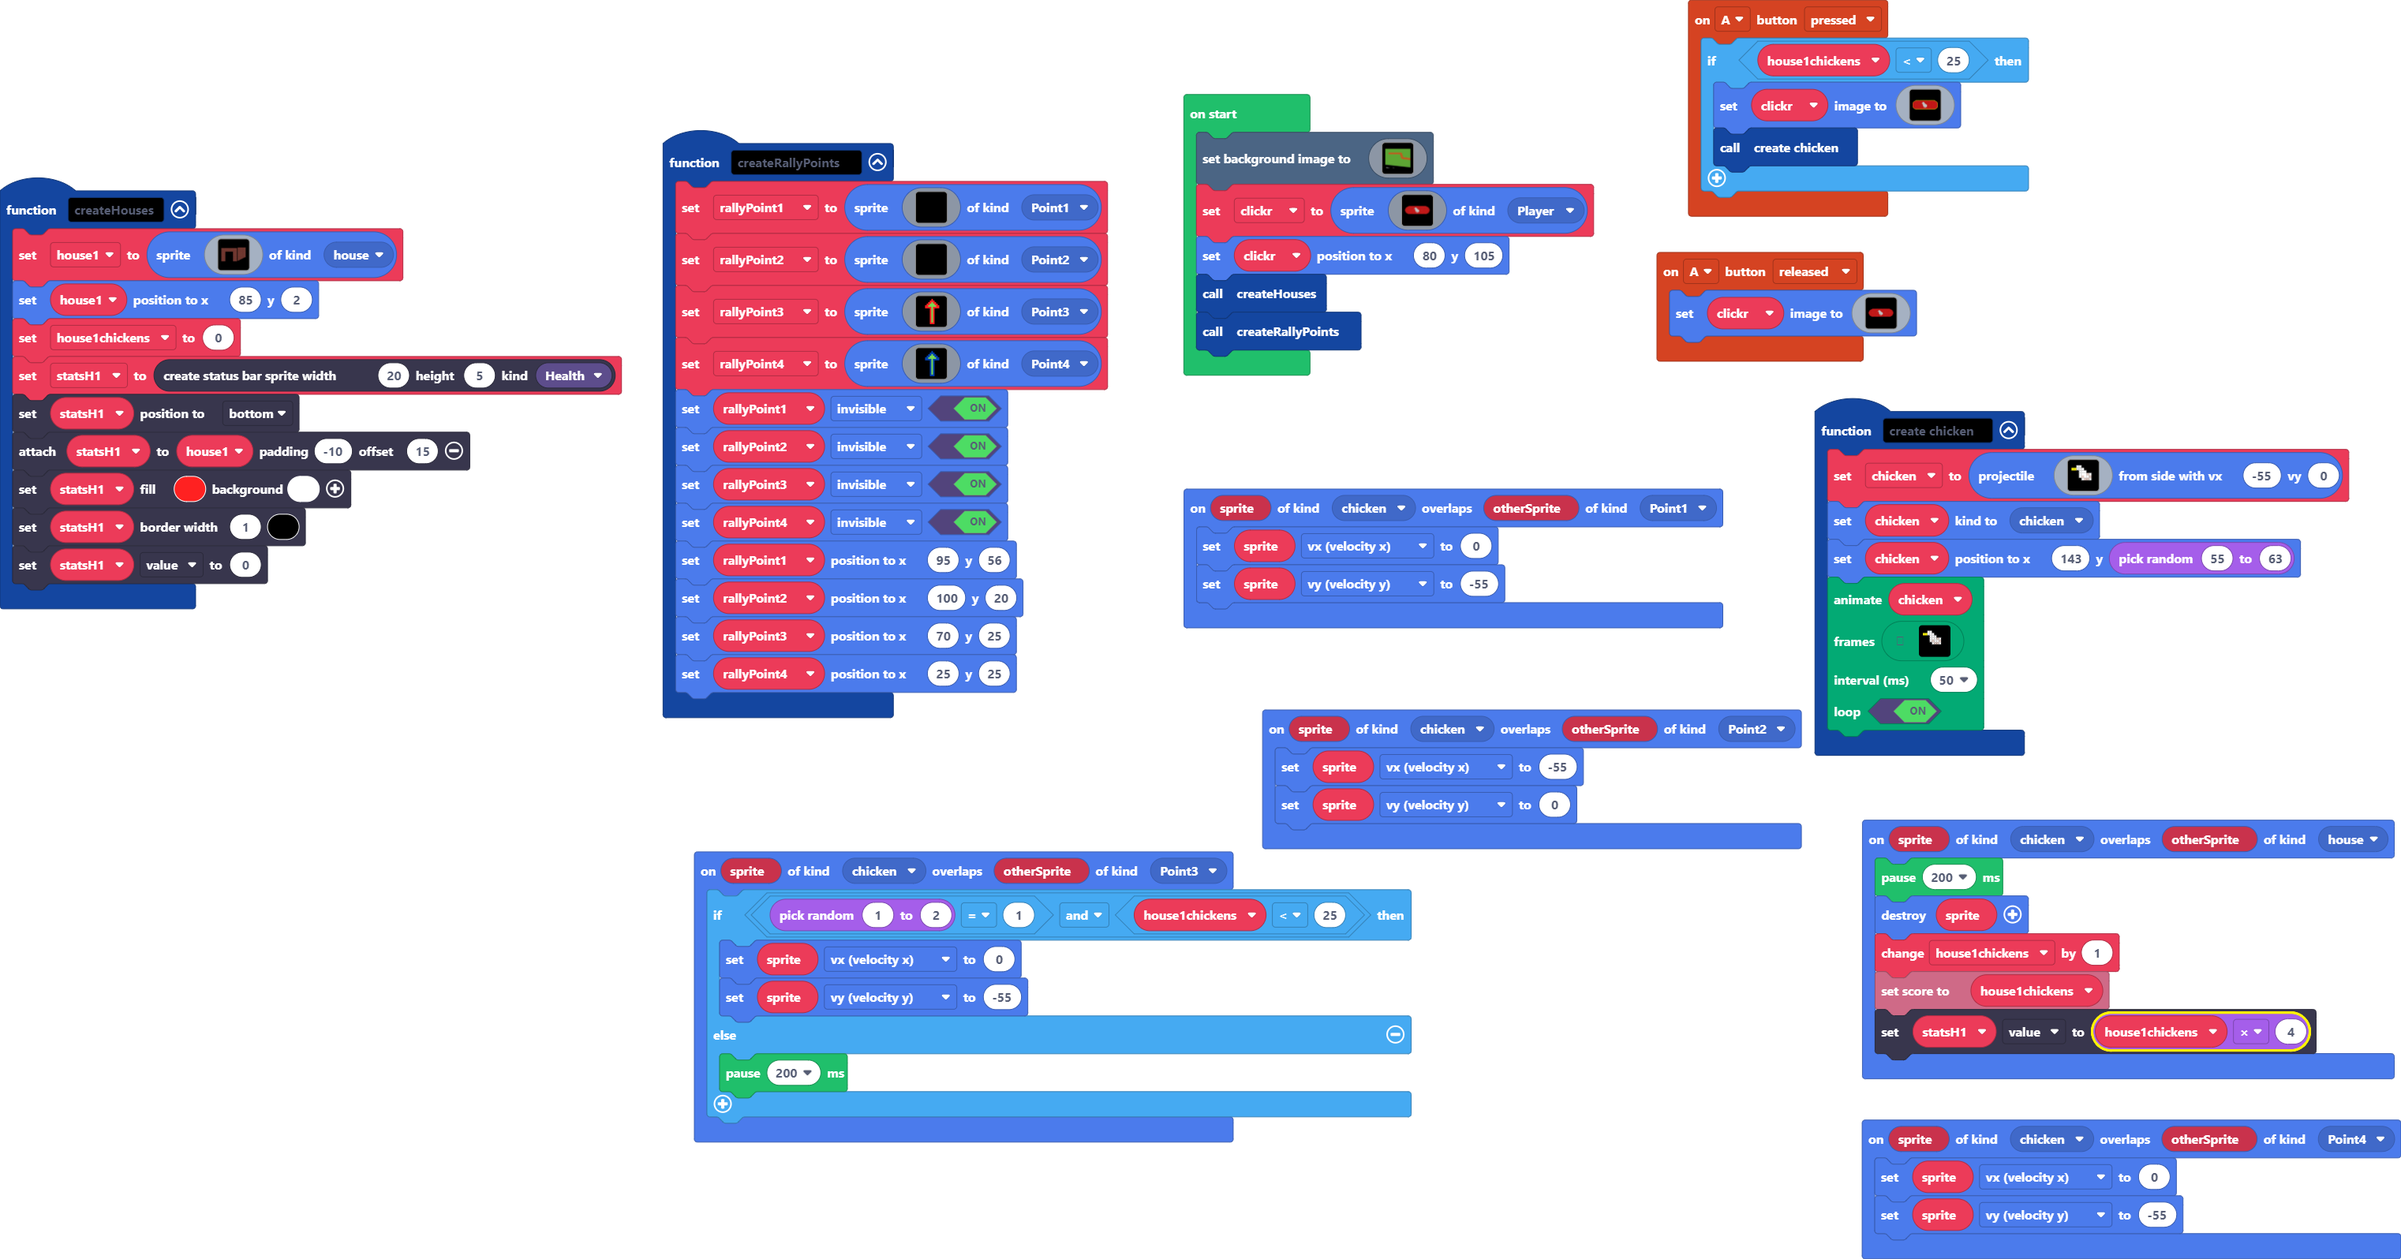
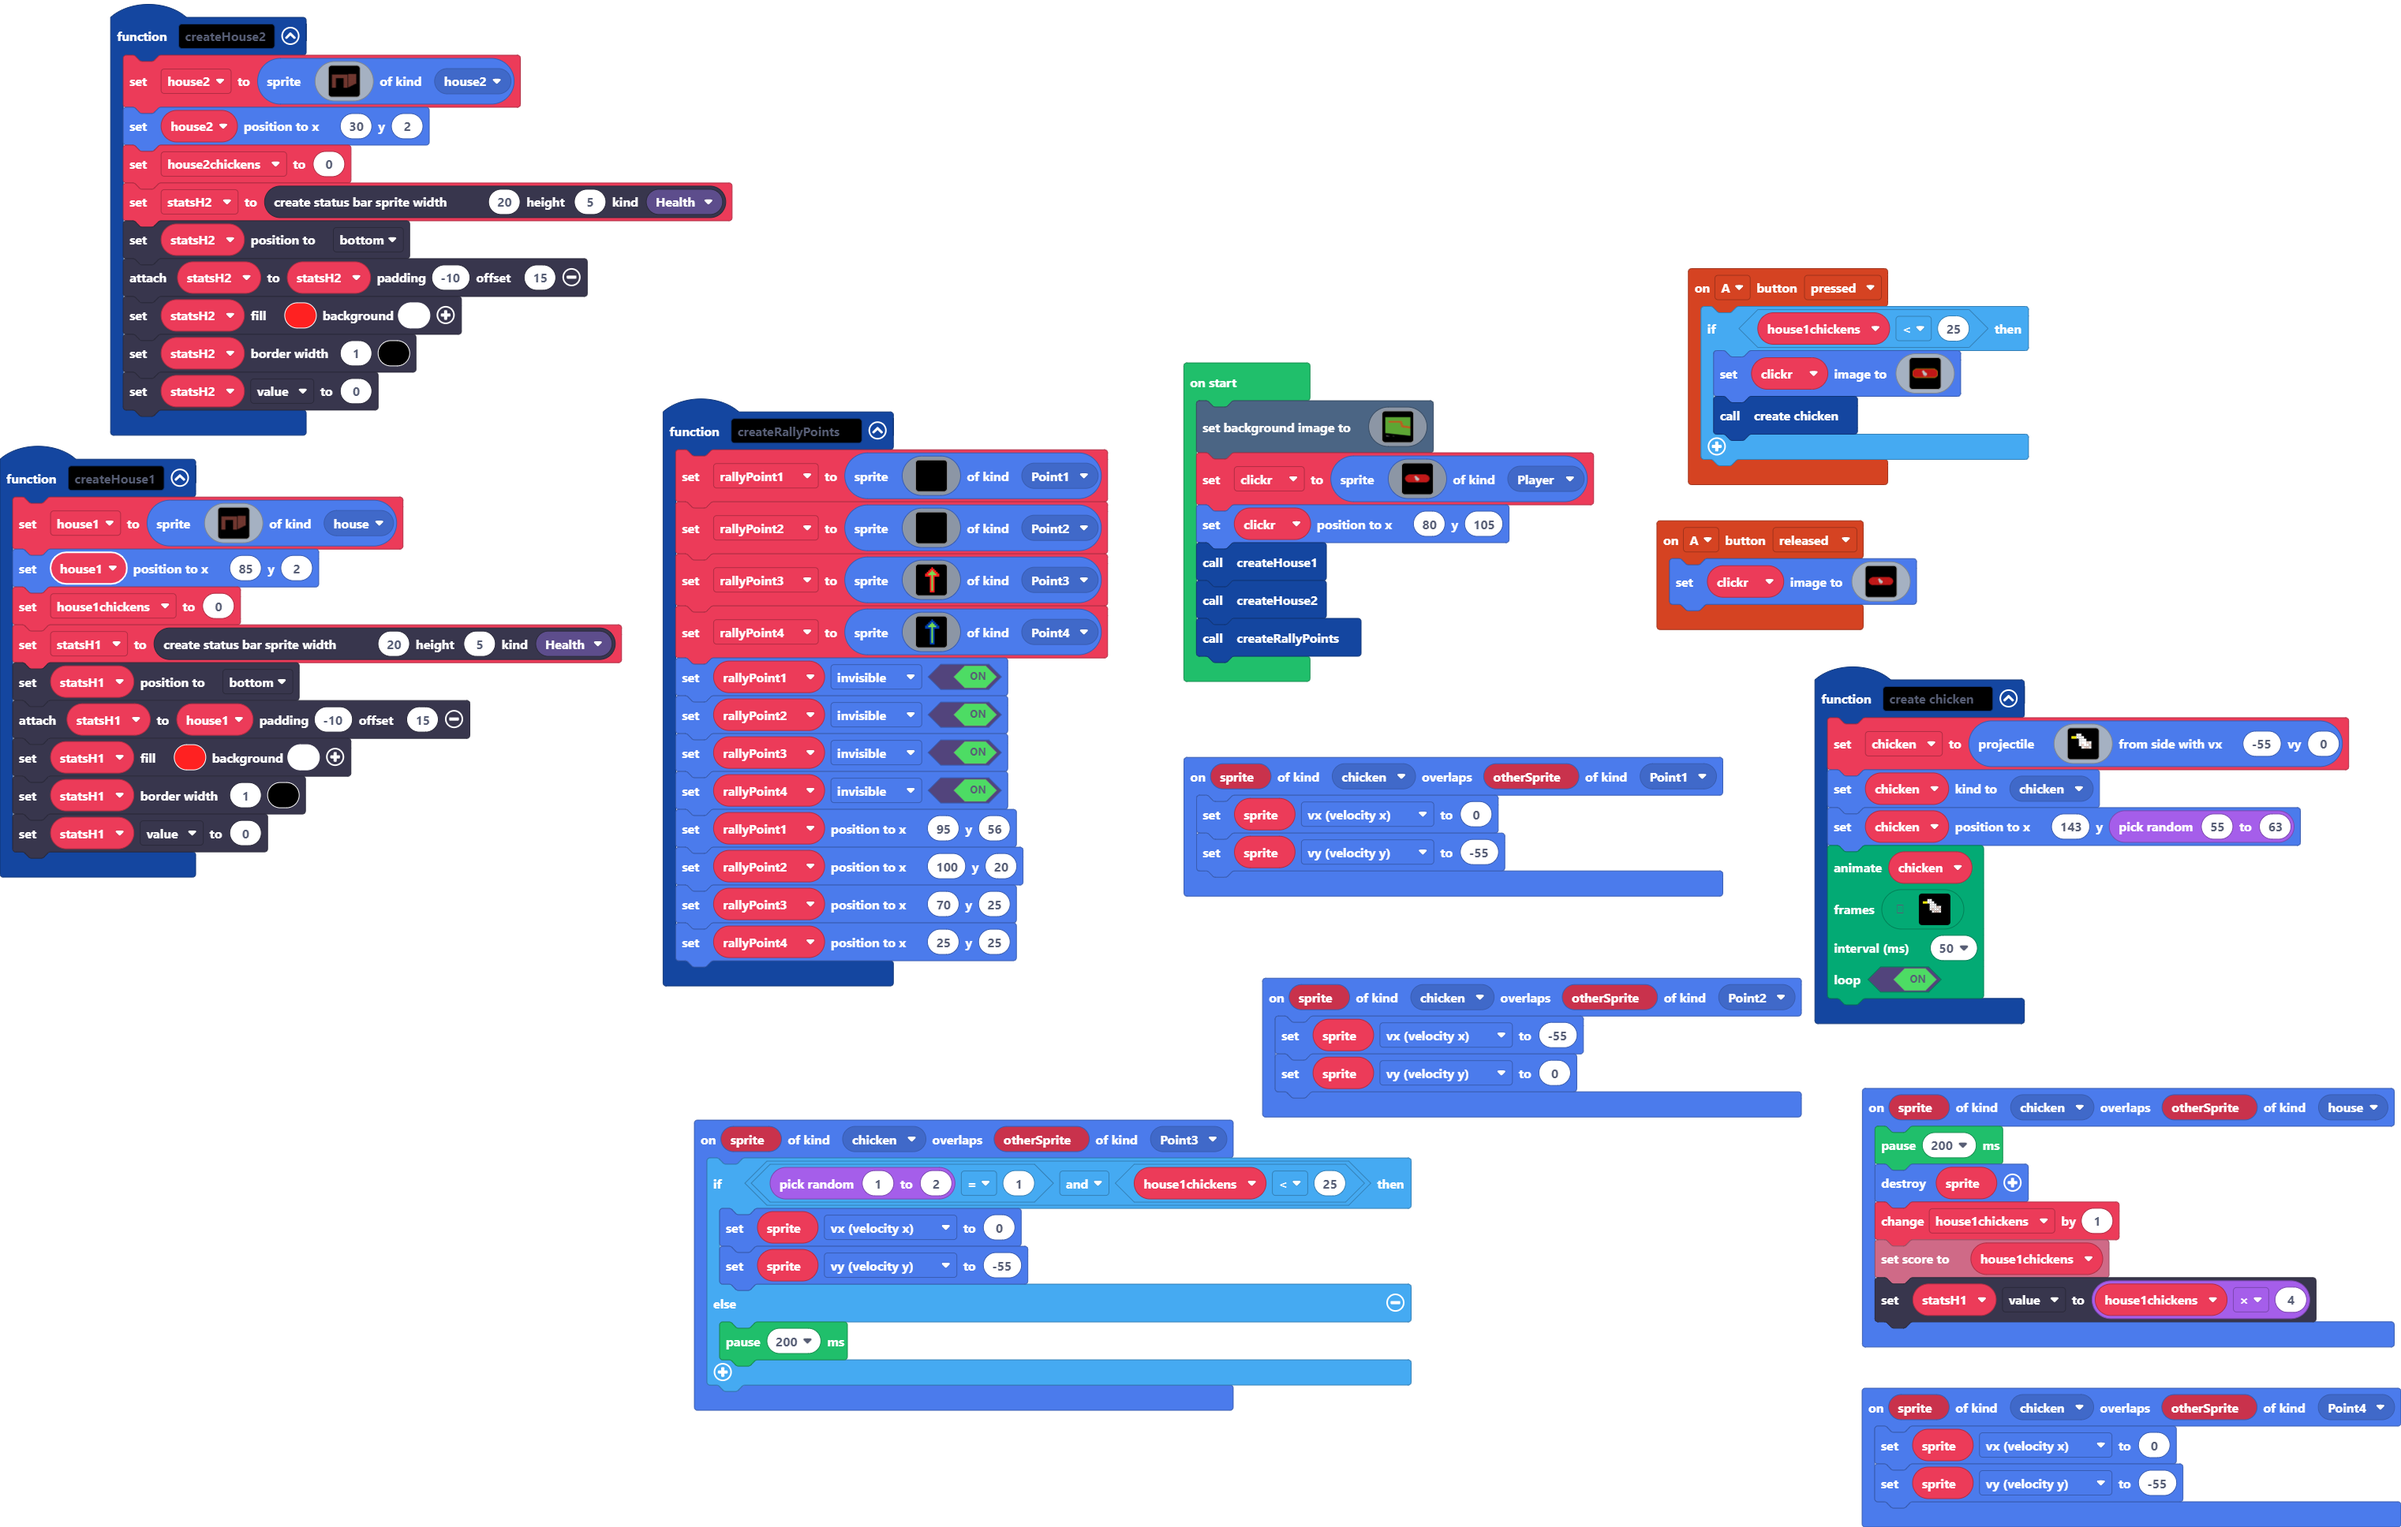
Started making the second house.

diff --git a/main.ts b/main.ts
@@ -5,6 +5,47 @@ namespace SpriteKind {
     export const Point3 = SpriteKind.create()
     export const Point4 = SpriteKind.create()
     export const house = SpriteKind.create()
+    export const house2 = SpriteKind.create()
+}
+function createHouse2 () {
+    house2 = sprites.create(img`
+        fffffffffffffffffffffffffffffffffeeeeeeeeeeeeeeeef
+        feeeeeeeeeeeeeeeeeeeeeeeeeeeeeeefeeeeeeeeeeeeeeeef
+        feeeeeeeeeeeeeeeeeeeeeeeeeeeeeeefeeeeeeeeeeeeeeeef
+        feeeeeeeeeeeeeeeeeeeeeeeeeeeeeeefeeeeeeeeeeeeeeeef
+        feeeeeeeeeeeeeeeeeeeeeeeeeeeeeeefeeeeeeeeeeeeeeeef
+        feeeeeeeeeeeeeeeeeeeeeeeeeeeeeeefeeeeeeeeeeeeeeeef
+        feeeeeeeeeeeeeeeeeeeeeeeeeeeeeeefeeeeeeeeeeeeeeeef
+        feeeeeeeeeeeeeeeeeeeeeeeeeeeeeeefeeeeeeeeeeeeeeeef
+        feeeeeeeefffffffffffffffeeeeeeeefeeeeeeeeeeeeeeeef
+        feeeeeeeefffffffffffffffeeeeeeeefeeeeeeeeeeeeeeeef
+        feeeeeeeefffffffffffffffeeeeeeeefeeeeeeeeeeeeeeeef
+        feeeeeeeefffffffffffffffeeeeeeeefeeeeeeeeeeeeeeeef
+        feeeeeeeefffffffffffffffeeeeeeeefeeeeeeeeeeeeeeeef
+        feeeeeeeefffffffffffffffeeeeeeeefeeeeeeeeeeeeeeeef
+        feeeeeeeefffffffffffffffeeeeeeeefeeeeeeeeeeeeeeeef
+        feeeeeeeefffffffffffffffeeeeeeeefeeeeeeeeeeeeeeeef
+        feeeeeeeefffffffffffffffeeeeeeeefeeeeeeeeeeeeeeeef
+        feeeeeeeefffffffffffffffeeeeeeeefeeeeeeeeeeeeeeeef
+        feeeeeeeefffffffffffffffeeeeeeeefeeeeeeeeeeeeeeeef
+        feeeeeeeefffffffffffffffeeeeeeeefeeeeeeeeeeeeeeff.
+        feeeeeeeefffffffffffffffeeeeeeeefeeeeeeeeeeeeff...
+        feeeeeeeefffffffffffffffeeeeeeeefeeeeeeeeeeff.....
+        feeeeeeeefffffffffffffffeeeeeeeefeeeeeeeeff.......
+        feeeeeeeefffffffffffffffeeeeeeeefeeeeeeff.........
+        feeeeeeeefffffffffffffffeeeeeeeefeeeeff...........
+        feeeeeeeefffffffffffffffeeeeeeeefeeff.............
+        feeeeeeeefffffffffffffffeeeeeeeefff...............
+        fffffffffffffffffffffffffffffffff.................
+        `, SpriteKind.house2)
+    house2.setPosition(30, 2)
+    house2chickens = 0
+    statsH2 = statusbars.create(20, 5, StatusBarKind.Health)
+    statsH2.positionDirection(CollisionDirection.Bottom)
+    statsH2.attachToSprite(statsH2, -10, 15)
+    statsH2.setColor(2, 1)
+    statsH2.setBarBorder(1, 15)
+    statsH2.value = 0
 }
 function create_chicken () {
     chicken = sprites.createProjectileFromSide(img`
@@ -195,7 +236,7 @@ function createRallyPoints () {
     rallyPoint3.setPosition(70, 25)
     rallyPoint4.setPosition(25, 25)
 }
-function createHouses () {
+function createHouse1 () {
     house1 = sprites.create(img`
         fffffffffffffffffffffffffffffffffeeeeeeeeeeeeeeeef
         feeeeeeeeeeeeeeeeeeeeeeeeeeeeeeefeeeeeeeeeeeeeeeef
@@ -294,6 +335,9 @@ let rallyPoint2: Sprite = null
 let rallyPoint1: Sprite = null
 let house1chickens = 0
 let chicken: Sprite = null
+let statsH2: StatusBarSprite = null
+let house2chickens = 0
+let house2: Sprite = null
 let clickr: Sprite = null
 scene.setBackgroundImage(img`
     7777777777777777777777777777777777777777777777777777777777777777777777777777777777777777777777777777777777777777777777777777777777777777777777777777777777777777
@@ -444,5 +488,6 @@ clickr = sprites.create(img`
     .........ffffffffffffffffffffffffffffffffffffffffffffffffffff.........
     `, SpriteKind.Player)
 clickr.setPosition(80, 105)
-createHouses()
+createHouse1()
+createHouse2()
 createRallyPoints()
